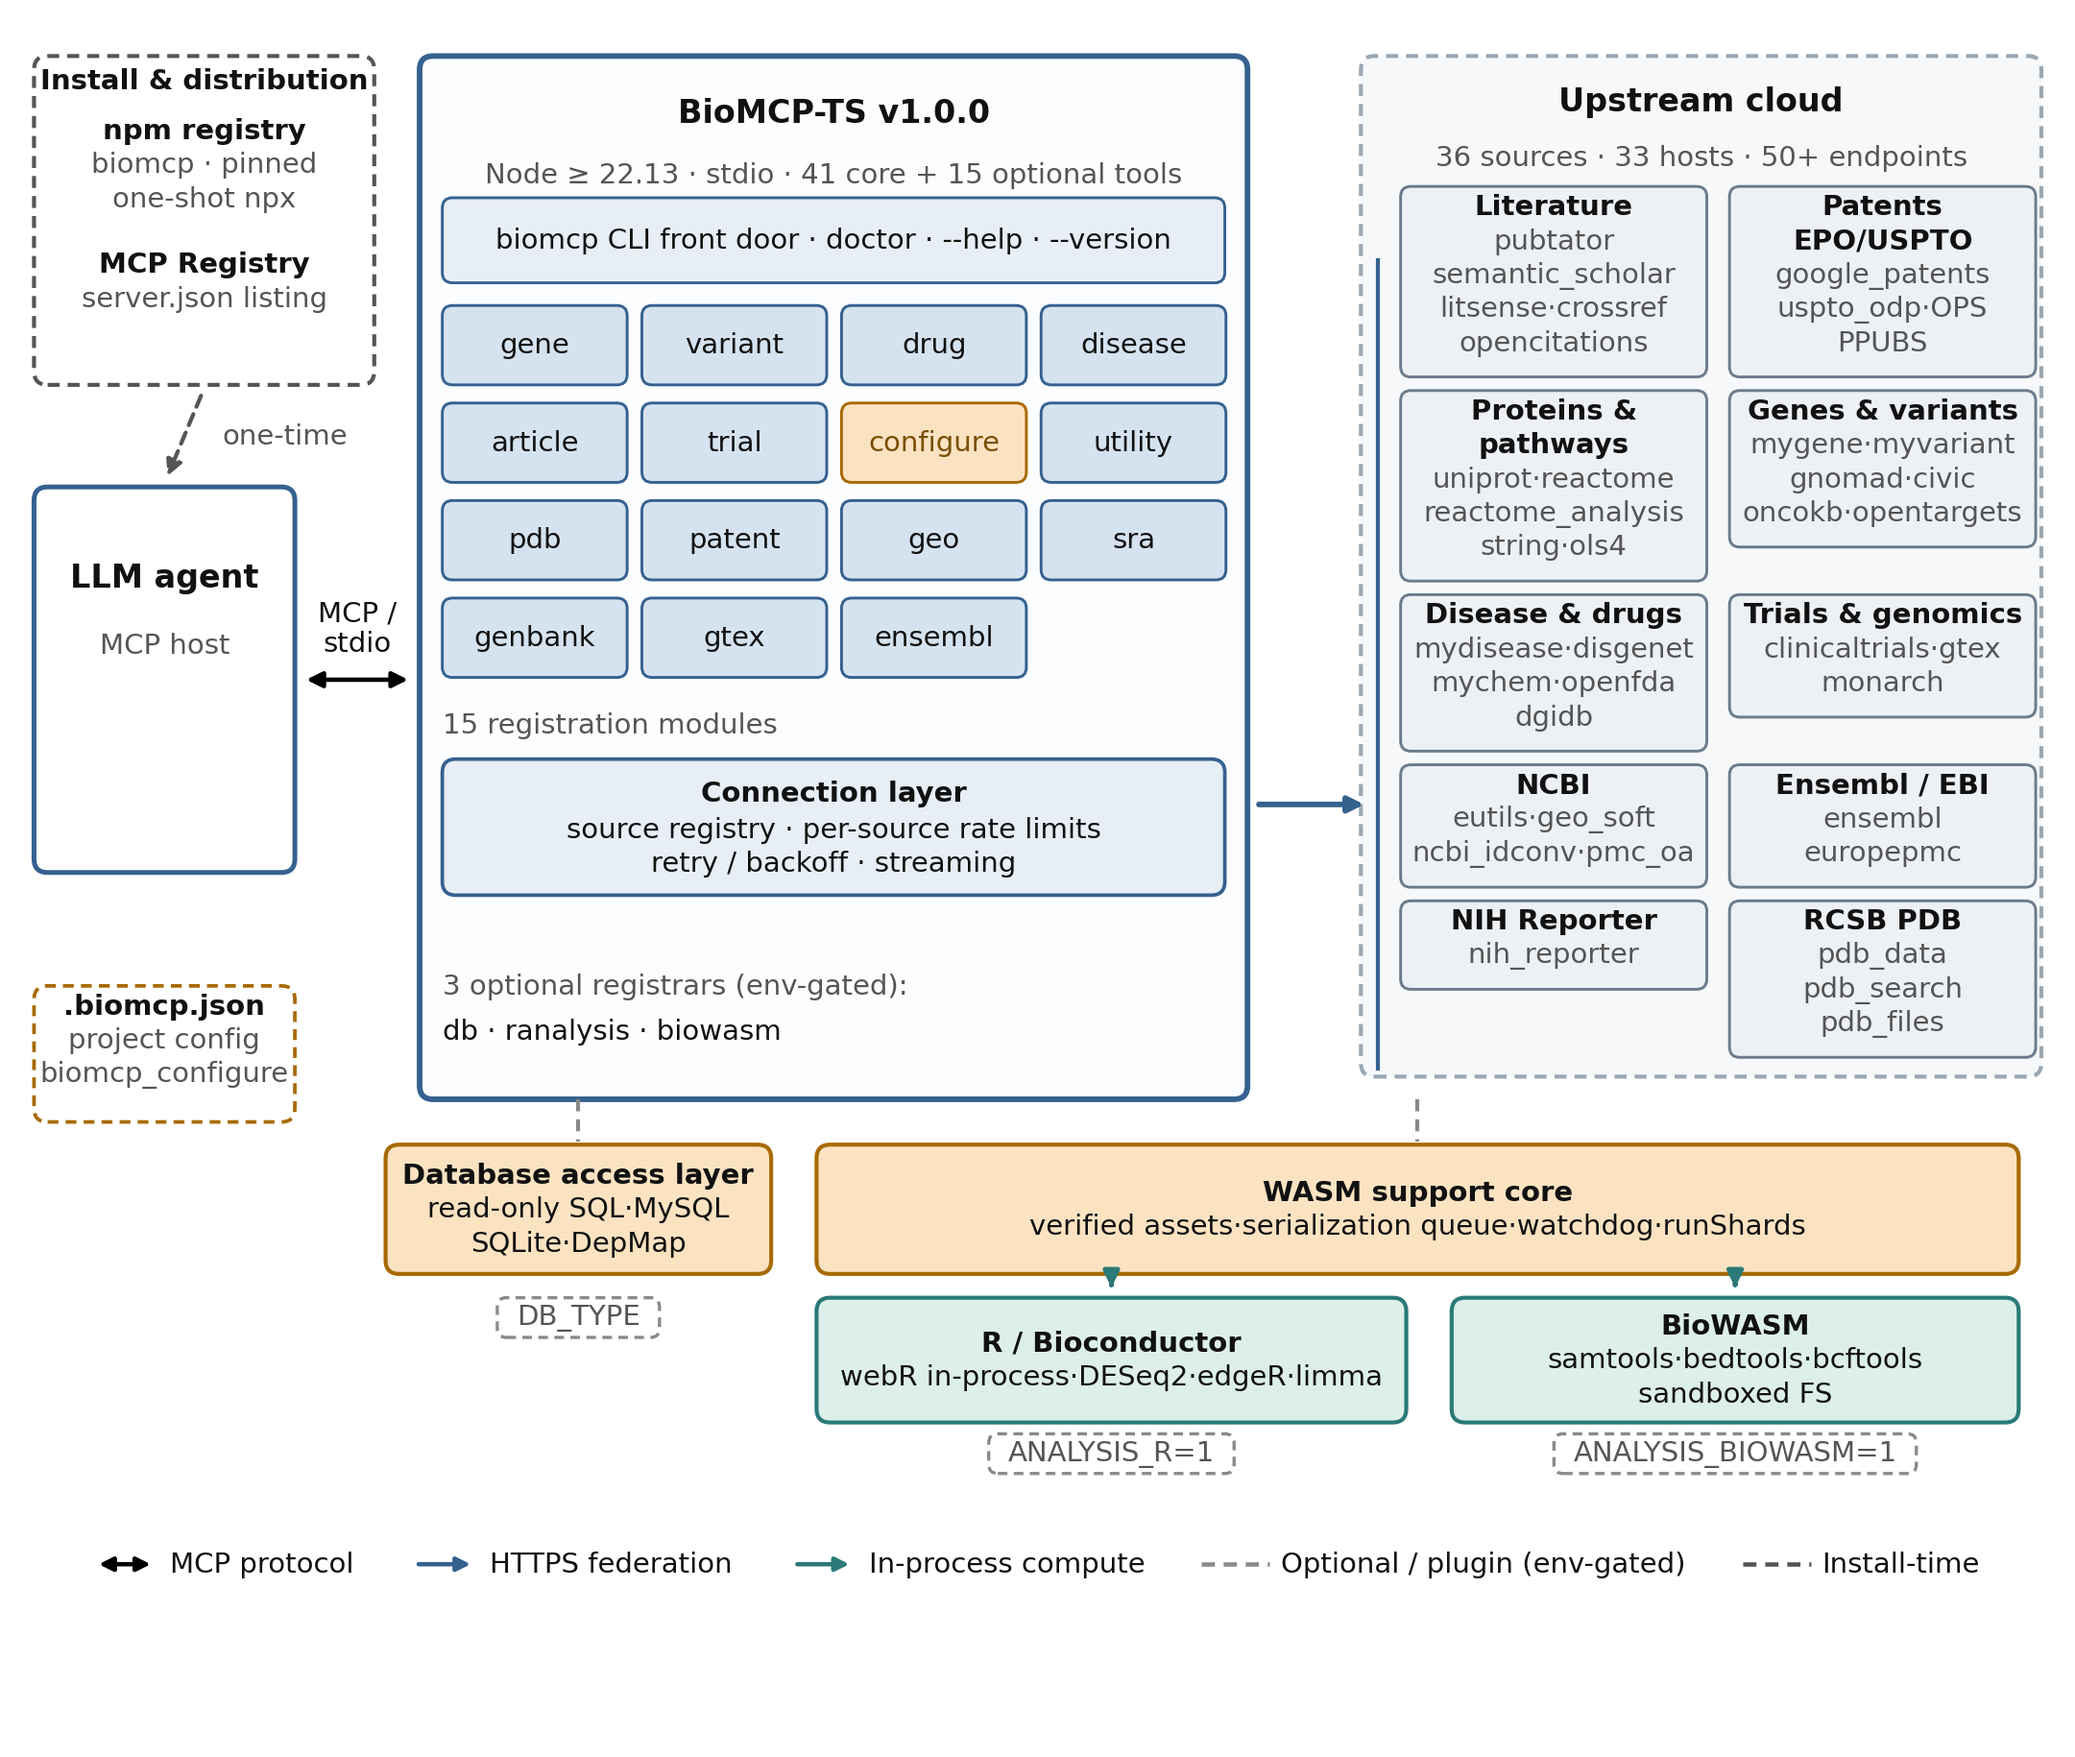
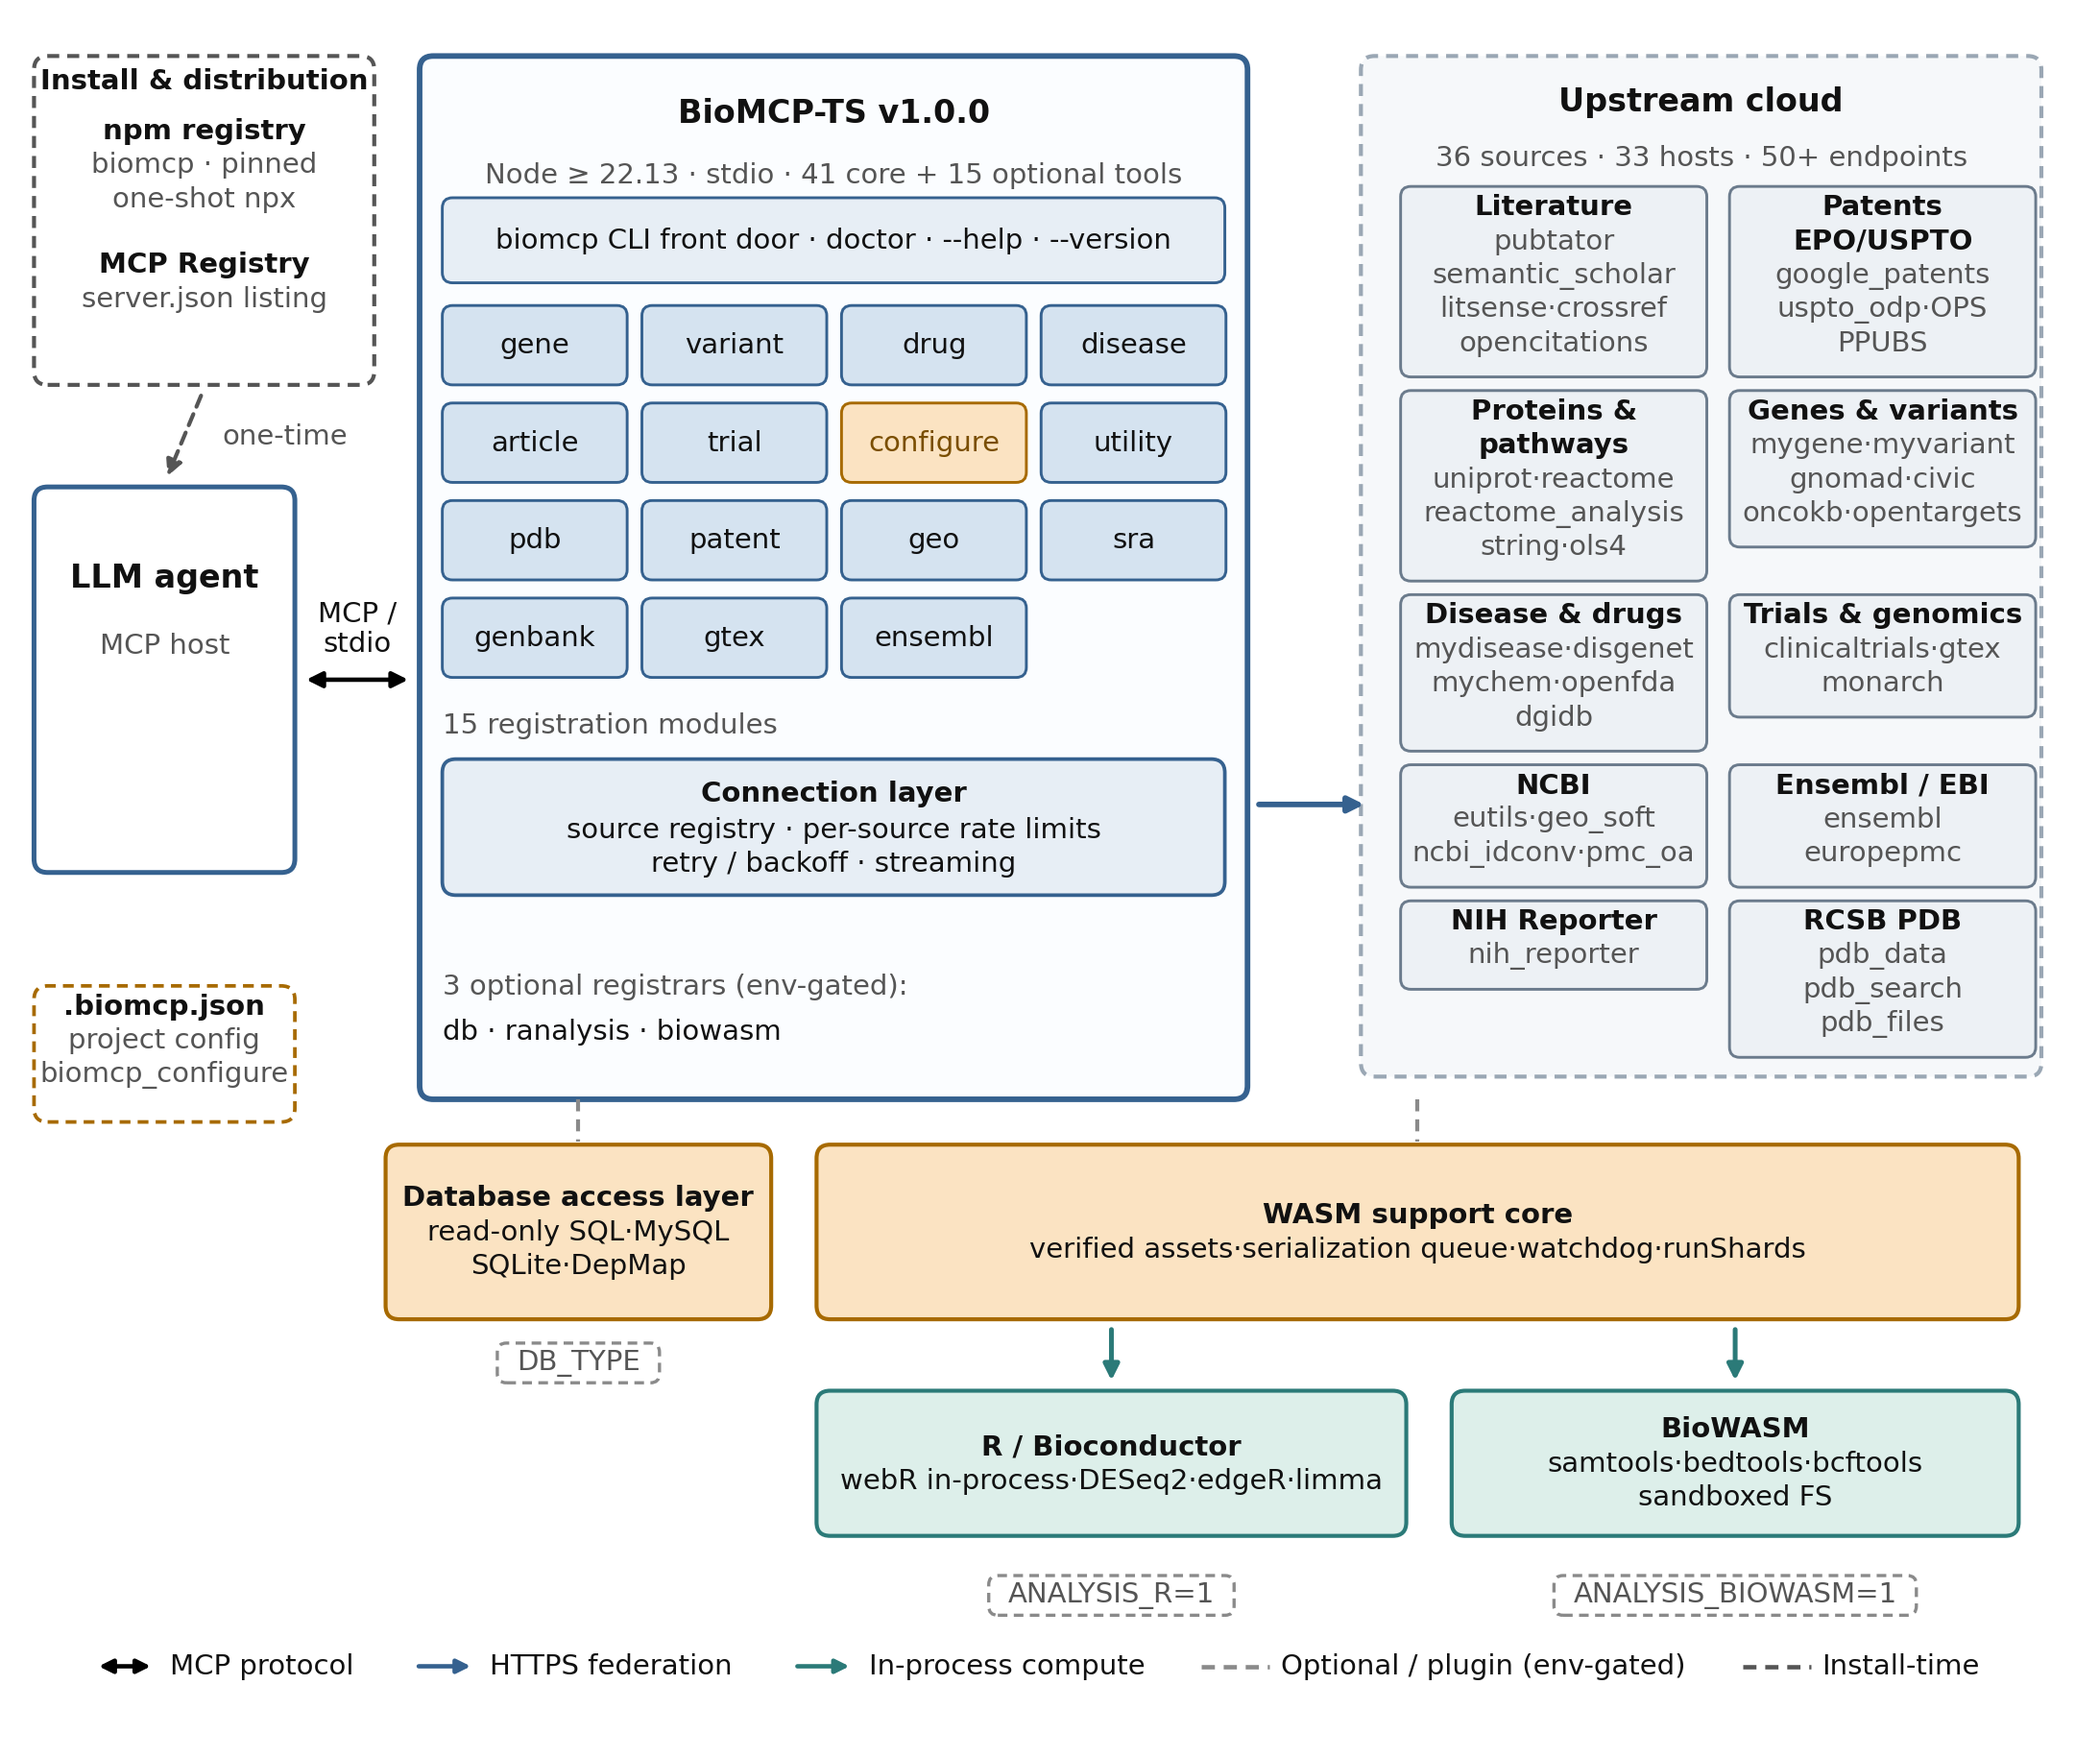
docs(readme): swap architecture figure to paper Fig 8 asset
- Replace docs/assets/fig1-architecture.png with the paper's current
  Figure 8 export (author-revision rounds 2-3 polish; same 2161x1830
  @300 dpi canvas; md5 a1a49abc)
- Embed via a main-branch raw URL (author decision): absolute URL renders
  on both GitHub and the npm package page, updates instantly on merge,
  and self-heals future figure revisions without a release; supersedes
  the v1.0.0-era tag-pinned convention

diff --git a/README.md b/README.md
@@ -1,6 +1,6 @@
 # BioMCP
 
-![BioMCP-TS architecture](https://raw.githubusercontent.com/yeyuan98/biomcp-ts/v1.0.0/docs/assets/fig1-architecture.png)
+![BioMCP-TS architecture](https://raw.githubusercontent.com/yeyuan98/biomcp-ts/main/docs/assets/fig1-architecture.png)
 
 ## Highlights
 
